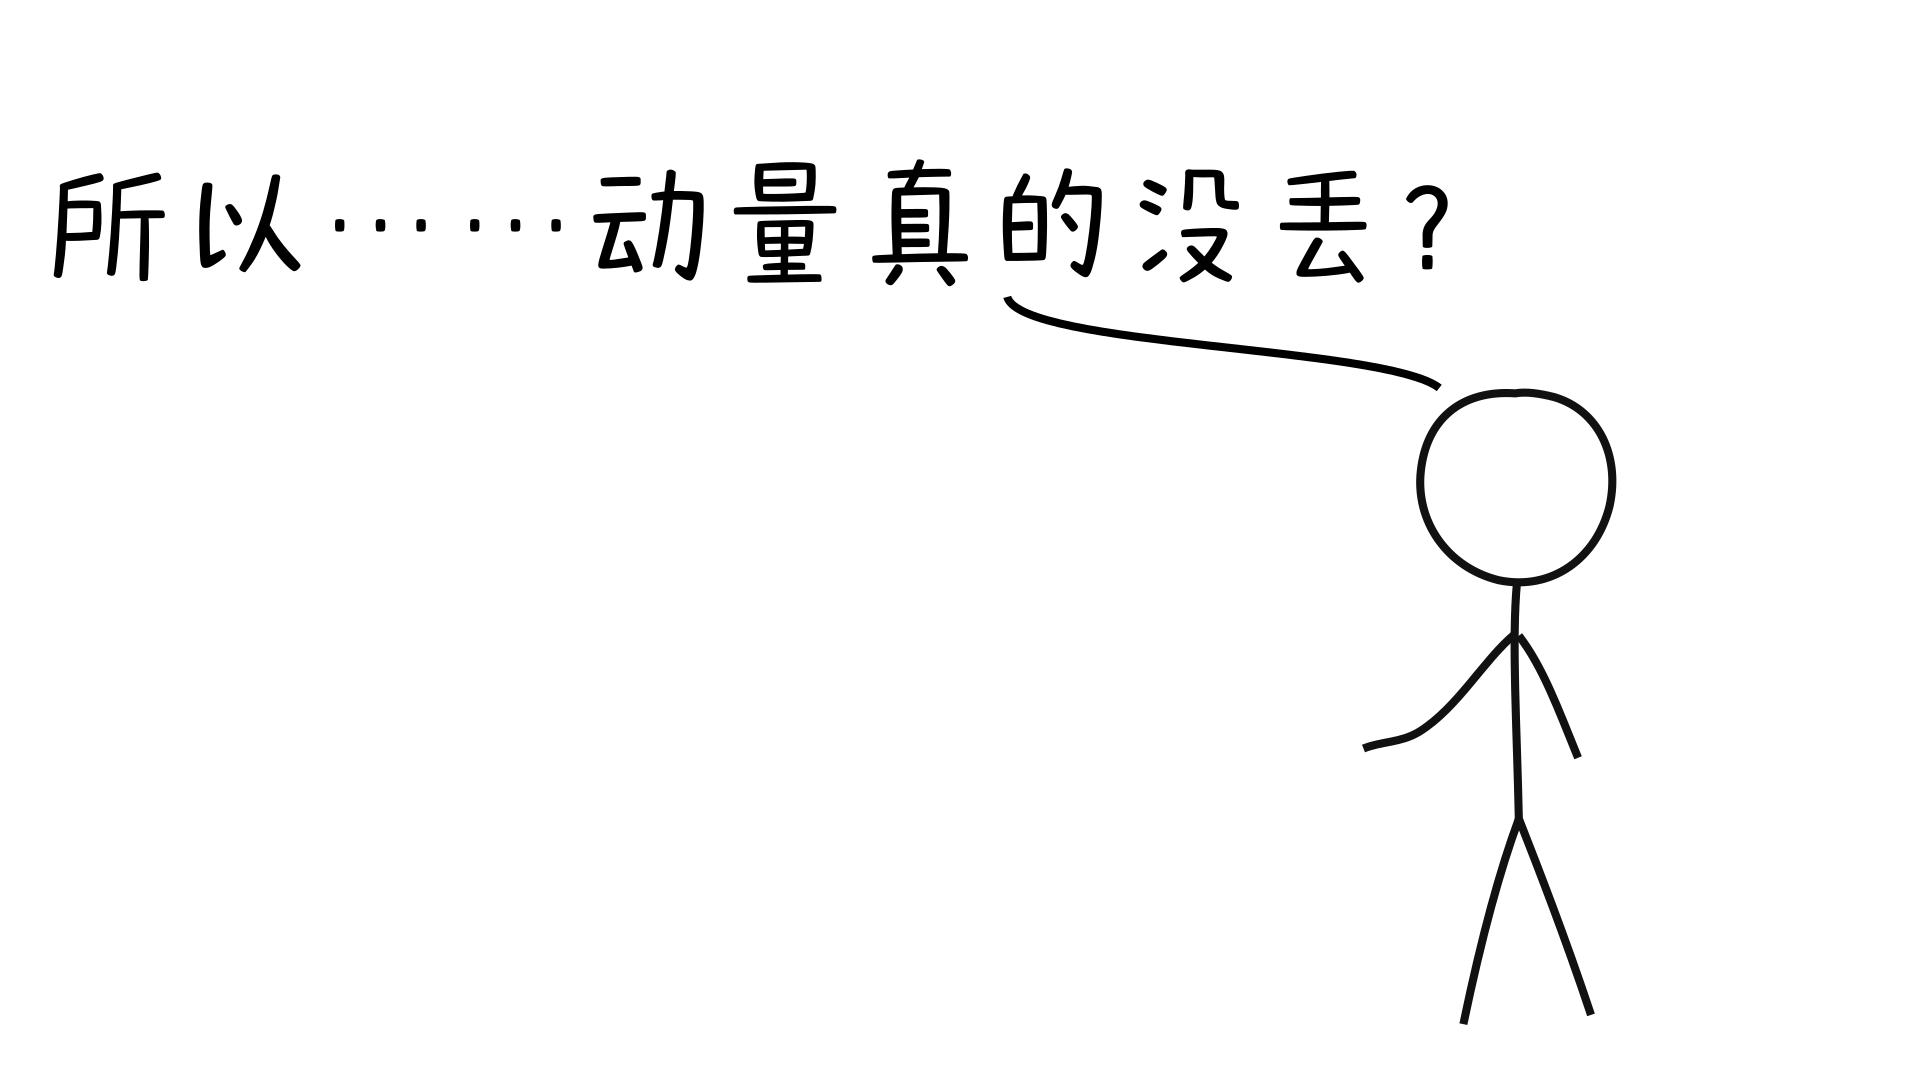
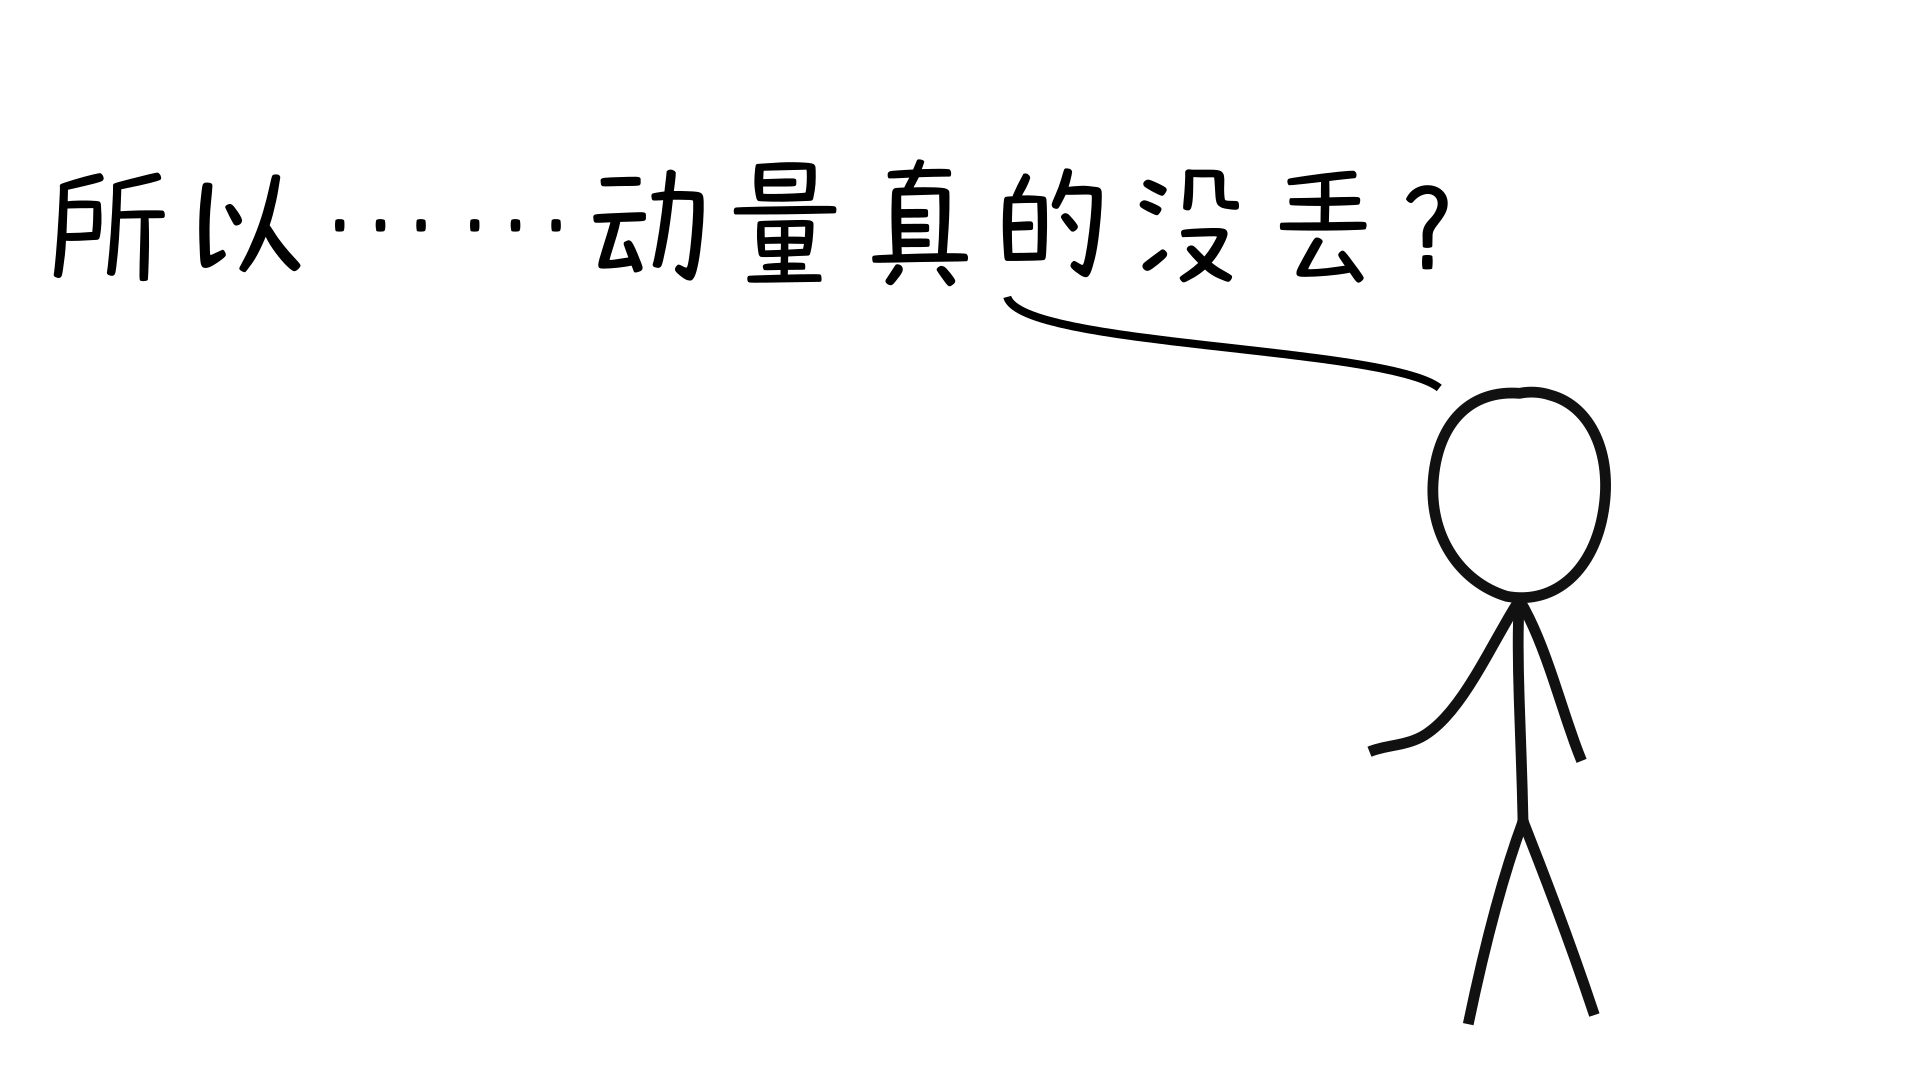
fix: refine Cueball proportions and joints

diff --git a/tests/test_demo_assets.py b/tests/test_demo_assets.py
@@ -1,6 +1,8 @@
 from pathlib import Path
 from xml.etree import ElementTree as ET
 
+from svgelements import Path as SVGPath
+
 
 ROOT = Path(__file__).resolve().parents[1]
 SVG_PATH = ROOT / "assets" / "xkcd_cueball_study.svg"
@@ -28,3 +30,32 @@ def test_svg_contains_no_embedded_raster_image() -> None:
     root = ET.parse(SVG_PATH).getroot()
     local_names = {element.tag.rsplit("}", 1)[-1] for element in root.iter()}
     assert "image" not in local_names
+
+
+def _group_path(root: ET.Element, group_id: str) -> SVGPath:
+    group = next(element for element in root.iter() if element.attrib.get("id") == group_id)
+    path_element = next(element for element in group if element.tag.endswith("path"))
+    return SVGPath(path_element.attrib["d"])
+
+
+def test_character_uses_bold_strokes() -> None:
+    root = ET.parse(SVG_PATH).getroot()
+    style_group = next(element for element in root if element.tag.endswith("g"))
+    assert float(style_group.attrib["stroke-width"]) >= 8
+
+
+def test_head_is_visibly_taller_than_wide() -> None:
+    root = ET.parse(SVG_PATH).getroot()
+    left, top, right, bottom = _group_path(root, "head").bbox()
+    assert (bottom - top) / (right - left) >= 1.12
+
+
+def test_arms_and_torso_share_the_head_base_joint() -> None:
+    root = ET.parse(SVG_PATH).getroot()
+    _, _, _, head_bottom = _group_path(root, "head").bbox()
+    joint_points = [
+        _group_path(root, group_id).first_point
+        for group_id in ("torso", "left-arm", "right-arm")
+    ]
+    assert max(point.x for point in joint_points) - min(point.x for point in joint_points) <= 2
+    assert all(abs(point.y - head_bottom) <= 4 for point in joint_points)
